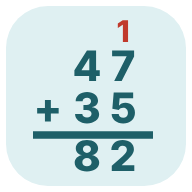
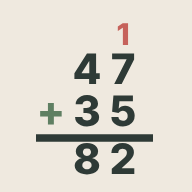
Blockmodellens färger, en färg per räknesätt och ny ikon (#3)
* Blockmodellens färgschema: mörk grågrön–blå rubrikruta, beige toner, ljus sidfot

Claude-Session: https://claude.ai/code/session_01FW4pkRRWndA97WmCazYNFg

* En färg per räknesätt (Blockmodellens områdesfärger): + grön, − blå, · gul, ÷ röd

Claude-Session: https://claude.ai/code/session_01FW4pkRRWndA97WmCazYNFg

* Rubrikrutan: fyra rutor i räknesättens färger

Claude-Session: https://claude.ai/code/session_01FW4pkRRWndA97WmCazYNFg

* Ny ikon: uppställningen i Blockmodellens färger på beige

Claude-Session: https://claude.ai/code/session_01FW4pkRRWndA97WmCazYNFg

---------

diff --git a/index.html b/index.html
@@ -2,14 +2,14 @@
 <html lang="sv"><head><meta charset="utf-8"><meta name="viewport" content="width=device-width,initial-scale=1">
 <title>Uppställningar – räkna med algoritmer</title>
 <meta name="description" content="Träna uppställningar (algoritmer) i de fyra räknesätten, siffra för siffra. Nya tal varje gång.">
-<meta name="theme-color" content="#1E5F68">
+<meta name="theme-color" content="#FBF8F3">
 <link rel="manifest" href="manifest.webmanifest">
 <link rel="icon" href="bilder/ikon-192.png">
 <link rel="apple-touch-icon" href="bilder/ikon-180.png">
 <link rel="preconnect" href="https://fonts.googleapis.com"><link rel="preconnect" href="https://fonts.gstatic.com" crossorigin>
 <link href="https://fonts.googleapis.com/css2?family=Fraunces:opsz,wght@9..144,600;9..144,700&family=Inter:wght@400;500;600;700;800;900&display=swap" rel="stylesheet">
 <link rel="stylesheet" href="stil.css?v=363ebe9b">
-<style>:root{--ink:#1E5F68;--mid:#4FA3AD;--l:#9FCDD2;--vl:#EAF5F6;--w:#F4FAFA;--hi:#4FA3AD;--bg:#EAF5F6;--ram:#9FCDD2;--knapp:#1E5F68;--t:#EAF5F6;--tram:#BFDDE0}</style>
+<style>:root{--ink:#46534D;--mid:#B9B1A4;--l:#E3DCD0;--vl:#FBF8F3;--w:#FBF8F3;--hi:#B9B1A4;--bg:#FBF8F3;--ram:#E3DCD0;--knapp:#46534D;--t:#FBF8F3;--tram:#E3DCD0}</style>
 <style>
 header .hoger nav a.mk{font-weight:700;white-space:nowrap}
 .logo small{white-space:nowrap}
@@ -26,10 +26,13 @@ header .wrap{flex-wrap:nowrap!important}
 @media(max-width:600px){section.panel{padding:16px 18px!important}section.panel h1{font-size:32px!important}section.panel p{font-size:16px}
  header .hoger{display:none}section.panel h1{font-size:30px!important}section.panel .etikett{font-size:12px}}
 </style>
+<style id="bmfarg">body{background:#FBF8F3}footer{background:#EFE9DF!important;color:#46534D}footer .wrap{color:#46534D}html body section.panel.panel{background:linear-gradient(115deg,#2E3A36,#5E8AA6)!important;box-shadow:none!important}html body section.panel.panel h1,html body section.panel.panel p{color:#fff!important}html body section.panel.panel .etikett{color:#D6E2EA!important}</style>
+<style id="rsatt">#upst[data-op="add"]{--op:#93B49A;--opl:#E6EFE6;--opr:#C9D9C8;--opd:#5F7F62}.v-satt button[data-typ="add"] b{background:#E6EFE6;color:#2E3A36}.v-satt button[data-typ="add"]:hover{border-color:#C9D9C8}.v-satt button[data-typ="add"].on{border-color:#5F7F62;box-shadow:0 0 0 2px #5F7F62 inset;background:#E6EFE6}.v-satt button[data-typ="add"].on b{background:#93B49A;color:#2E3A36}#upst[data-op="sub"]{--op:#9DBED1;--opl:#E8F2F7;--opr:#CFE1ED;--opd:#5E8AA6}.v-satt button[data-typ="sub"] b{background:#E8F2F7;color:#2E3A36}.v-satt button[data-typ="sub"]:hover{border-color:#CFE1ED}.v-satt button[data-typ="sub"].on{border-color:#5E8AA6;box-shadow:0 0 0 2px #5E8AA6 inset;background:#E8F2F7}.v-satt button[data-typ="sub"].on b{background:#9DBED1;color:#2E3A36}#upst[data-op="mul"]{--op:#F8C772;--opl:#FFF4E0;--opr:#FCE0B2;--opd:#E0A23F}.v-satt button[data-typ="mul"] b{background:#FFF4E0;color:#2E3A36}.v-satt button[data-typ="mul"]:hover{border-color:#FCE0B2}.v-satt button[data-typ="mul"].on{border-color:#E0A23F;box-shadow:0 0 0 2px #E0A23F inset;background:#FFF4E0}.v-satt button[data-typ="mul"].on b{background:#F8C772;color:#2E3A36}#upst[data-op="div"]{--op:#E58F84;--opl:#FCEBE8;--opr:#F6C9C3;--opd:#C6625B}.v-satt button[data-typ="div"] b{background:#FCEBE8;color:#2E3A36}.v-satt button[data-typ="div"]:hover{border-color:#F6C9C3}.v-satt button[data-typ="div"].on{border-color:#C6625B;box-shadow:0 0 0 2px #C6625B inset;background:#FCEBE8}.v-satt button[data-typ="div"].on b{background:#E58F84;color:#2E3A36}#upst .up-kort:not(.up-slut){border-top:6px solid var(--op)}#upst .up-c.akt,#upst .up-d.akt{background:var(--opr)}#upst .up-top.mal{background:var(--op);animation:opuls 1.1s infinite}@keyframes opuls{50%{box-shadow:inset 0 0 0 3px var(--opd)}}#upst .up-msg{background:var(--opl)}#upst .up-msg.vx{background:var(--opr)}#upst .v-chip{border-color:var(--opr);border-left:6px solid var(--op)}#upst .up-uppg{color:var(--opd)}</style>
+<style id="rsrubrik">html body section.panel.panel{display:flex;align-items:center;gap:24px}html body section.panel.panel>div:first-child{flex:1;min-width:0}.rsrad{display:grid;grid-template-columns:repeat(2,62px);grid-auto-rows:62px;gap:8px;flex:none}.rsrad i{display:flex;align-items:center;justify-content:center;border-radius:12px;font-style:normal;font-weight:800;font-size:34px;color:#2E3A36;line-height:1}@media(max-width:600px){html body section.panel.panel{flex-wrap:wrap;gap:14px}.rsrad{width:100%;grid-template-columns:repeat(4,1fr);grid-auto-rows:40px;gap:6px}.rsrad i{font-size:24px;border-radius:9px}}</style>
 </head>
 <body>
-<div class="rand" aria-hidden="true"><i style="background:#5F7F62"></i><i style="background:#537FB1"></i><i style="background:#C6625B"></i></div><header><div class="wrap"><a class="logo" href="index.html" aria-label="Mattekompassen, Örtagårdsskolan Malmö"><img src="bilder/kompass.png" alt="" style="width:46px;height:46px"><span>Mattekompassen<small>Örtagårdsskolan Malmö</small></span></a></div></header>
-<style>section.panel.panel{background:linear-gradient(115deg,#EAF5F6,#D3EAEC)!important;box-shadow:inset 0 0 0 2px #9FCDD2!important}section.panel.panel h1{color:#1E5F68!important}section.panel.panel .etikett{color:#1E5F68!important}section.panel.panel .sti,section.panel.panel .sti a{color:#4A5560!important}section.panel.panel p{color:#33404D!important}.kapblock,.ovkort,.np .infobox,.pi-intro div,.pi-info>div{background:linear-gradient(110deg,#EAF5F6,#D3EAEC)!important;border:2px solid #9FCDD2!important;box-shadow:none}.typ,.bg-ruta,.bt-ruta,.bm-steg li,.bm-valj a,.bm-del,.bm-tips li,.pi-omr button,.pisa .enhet,.np .ib4>div,.upg,.r6k,.r6steg div,.r6kap a:not(.forst),.ruta,.kq-lruta{background:#fff!important;border:1.5px solid #BFDDE0!important;border-top:6px solid #1E5F68!important}.kapblock h2,.kapblock h3:first-child,.r6sek,.r6k h3,.typ b,.bm-steg b{color:#1E5F68}.knapp{background:#1E5F68!important;color:#fff!important}</style><div class="wrap"><section class="panel"><div><h1>Uppställningar</h1><div class="etikett">De fyra räknesätten</div><p>Räkna de fyra räknesätten med uppställning, även kallad algoritm, siffra för siffra. Du får nya tal varje gång.</p></div></section></div>
+<header><div class="wrap"><a class="logo" href="index.html" aria-label="Mattekompassen, Örtagårdsskolan Malmö"><img src="bilder/kompass.png" alt="" style="width:46px;height:46px"><span>Mattekompassen<small>Örtagårdsskolan Malmö</small></span></a></div></header>
+<style>section.panel.panel{background:linear-gradient(115deg,#EFE9DF,#E3DCD0)!important;box-shadow:inset 0 0 0 2px #B9B1A4!important}section.panel.panel h1{color:#46534D!important}section.panel.panel .etikett{color:#46534D!important}section.panel.panel .sti,section.panel.panel .sti a{color:#4A5560!important}section.panel.panel p{color:#33404D!important}.kapblock,.ovkort,.np .infobox,.pi-intro div,.pi-info>div{background:linear-gradient(110deg,#EFE9DF,#E3DCD0)!important;border:2px solid #B9B1A4!important;box-shadow:none}.typ,.bg-ruta,.bt-ruta,.bm-steg li,.bm-valj a,.bm-del,.bm-tips li,.pi-omr button,.pisa .enhet,.np .ib4>div,.upg,.r6k,.r6steg div,.r6kap a:not(.forst),.ruta,.kq-lruta{background:#fff!important;border:1.5px solid #E3DCD0!important;border-top:6px solid #46534D!important}.kapblock h2,.kapblock h3:first-child,.r6sek,.r6k h3,.typ b,.bm-steg b{color:#46534D}.knapp{background:#46534D!important;color:#fff!important}</style><div class="wrap"><section class="panel"><div><h1>Uppställningar</h1><div class="etikett">De fyra räknesätten</div><p>Räkna de fyra räknesätten med uppställning, även kallad algoritm, siffra för siffra. Du får nya tal varje gång.</p></div><div class="rsrad" aria-hidden="true"><i style="background:#93B49A">+</i><i style="background:#9DBED1">−</i><i style="background:#F8C772">·</i><i style="background:#E58F84">÷</i></div></section></div>
 <style>
 #upst{max-width:760px;margin:0 auto;--cs:clamp(40px,11.5vw,58px);--acc:#C0392B}
 .up-val{display:flex;flex-wrap:wrap;gap:8px 14px;margin:0 0 14px}
@@ -131,19 +134,19 @@ header .wrap{flex-wrap:nowrap!important}
 .up-knappar{gap:10px;align-items:center}
 @media (max-width:560px){.v-box{padding:14px 12px 16px}.v-satt{grid-template-columns:repeat(2,minmax(0,1fr))}.v-tva{grid-template-columns:1fr}.v-seg button{font-size:14px}.v-start button{width:100%}.v-chip{font-size:14px;padding:5px 10px}}
 /* Blågrå färger (Nikolas bild 2026-11-21) i stället för gult */
-:root{--ink:#1E5F68;--mid:#2F7480;--l:#BFDDE0;--vl:#EAF5F6;--w:#F4FAFA;--hi:#EFF7F8;--bg:#EAF5F6;--ram:#BFDDE0;--knapp:#1E5F68}
-.panel{background:#1E5F68!important;color:#fff}.panel h1{color:#fff}.panel .sti,.panel .sti a{color:#BFDDE0}.panel .etikett{color:#7FB5BC}.panel p{color:#EAF5F6}
-.up-c.akt,.up-d.akt{background:#DFF0F2}.up-top:hover{background:#EFF7F8}.up-top.mal{background:#BFDDE0}
-@keyframes uppuls{50%{box-shadow:inset 0 0 0 3px #2F7480}}
-.up-ans span{border-color:#7FB5BC;background:#FBFDFD}.up-ans.sel span{background:#EAF5F6}
-.up-msg{background:#EFF7F8}.up-msg.vx{background:#DFF0F2}
-.up-uppg{color:#2F7480}.up-prog i{background:#EAF5F6;border-color:#BFDDE0}
-.v-et{color:#2F7480}.v-satt button{border-color:#CFE6E9}.v-satt button.on{background:#EFF7F8}.v-seg{background:#EAF5F6}.v-seg small{color:#2F7480}
+:root{--ink:#46534D;--mid:#B9B1A4;--l:#E3DCD0;--vl:#FBF8F3;--w:#FBF8F3;--hi:#B9B1A4;--bg:#FBF8F3;--ram:#E3DCD0;--knapp:#46534D;--t:#FBF8F3;--tram:#E3DCD0}
+.panel{background:#46534D!important;color:#fff}.panel h1{color:#fff}.panel .sti,.panel .sti a{color:#E3DCD0}.panel .etikett{color:#B9B1A4}.panel p{color:#EFE9DF}
+.up-c.akt,.up-d.akt{background:#FCEBC4}.up-top:hover{background:#F6F2EB}.up-top.mal{background:#E3DCD0}
+@keyframes uppuls{50%{box-shadow:inset 0 0 0 3px #46534D}}
+.up-ans span{border-color:#B9B1A4;background:#FFFFFF}.up-ans.sel span{background:#EFE9DF}
+.up-msg{background:#F6F2EB}.up-msg.vx{background:#FCEBC4}
+.up-uppg{color:#46534D}.up-prog i{background:#EFE9DF;border-color:#E3DCD0}
+.v-et{color:#46534D}.v-satt button{border-color:#E3DCD0}.v-satt button.on{background:#F6F2EB}.v-seg{background:#EFE9DF}.v-seg small{color:#46534D}
 @media (max-width:560px){.up-kort{padding:14px 12px 16px}.up-grp button{font-size:14px;padding:6px 10px}.up-fraga{font-size:17px}.up-tangent{grid-template-columns:repeat(3,1fr);width:100%}.up-tangent button{height:52px}.up-msg{font-size:16px}}
 </style><main><section><div class="wrap"><div id="upst"></div>
 <div class="app-tips" id="appTips"><span><b>Spara som app:</b> lägg Uppställningar på din skärm, så öppnar du den med ett klick, även utan internet.</span><button id="appJa">Installera</button><button class="x" id="appNej" aria-label="Stäng">✕</button></div>
-</div></section></main><script src="uppstallning.js?v=363ebe9b"></script>
-<footer><div class="rand" aria-hidden="true"><i style="background:#5F7F62"></i><i style="background:#537FB1"></i><i style="background:#C6625B"></i></div><div class="wrap"><b>Uppställningar – en del av Mattekompassen</b></div></footer>
+</div></section></main><script src="uppstallning.js?v=3812431e"></script>
+<footer><div class="wrap"><b>Uppställningar – en del av Mattekompassen</b></div></footer>
 <script>
 if('serviceWorker' in navigator){window.addEventListener('load',function(){navigator.serviceWorker.register('sw.js').catch(function(){})})}
 (function(){var d=null,t=document.getElementById('appTips');

diff --git a/uppstallning.js b/uppstallning.js
@@ -633,6 +633,7 @@
   var METOD = [['kort', 'Kort division', 'Resten som liten siffra'], ['trappa', 'Trappan', 'Nämnaren till vänster'], ['stol', 'Liggande stolen', 'Nämnaren till höger']];
   var SATT = [['add', '+', 'Addition'], ['sub', '−', 'Subtraktion'], ['mul', '·', 'Multiplikation'], ['div', '÷', 'Division']];
   function rita_start() {
+    R.setAttribute('data-op', S.typ);
     R.innerHTML = '<div class="v-box"><span class="v-et">1. Välj räknesätt</span><div class="v-satt" role="group" aria-label="Räknesätt">' +
       SATT.map(function (x) { return '<button data-typ="' + x[0] + '" class="' + (S.typ === x[0] ? 'on' : '') + '" aria-pressed="' + (S.typ === x[0]) + '"><b aria-hidden="true">' + x[1] + '</b><span>' + x[2] + '</span></button>'; }).join('') + '</div>' +
       '<div class="v-tva"><div><span class="v-et">2. Välj nivå</span><div class="v-seg" role="group" aria-label="Nivå">' +
@@ -664,7 +665,7 @@
     if (b.dataset.lage) { S.lage = b.dataset.lage; spara(); return rita_start(); }
     if (b.dataset.d !== undefined) return siffra(+b.dataset.d);
     var g = b.dataset.g;
-    if (g === 'borja') { vald = true; nyRunda(); R.scrollIntoView({ block: 'start', behavior: 'smooth' }); return; }
+    if (g === 'borja') { R.setAttribute('data-op', S.typ); vald = true; nyRunda(); R.scrollIntoView({ block: 'start', behavior: 'smooth' }); return; }
     if (g === 'byt') { vald = false; rita_start(); return; }
     if (g === 'sudda') return sudda();
     if (g === 'ratta') return ratta();

diff --git a/sw.js b/sw.js
@@ -1,6 +1,6 @@
 // Uppställningar – offline-stöd. Byt VERSION när filerna ändras (bygg.py gör det automatiskt).
-const VERSION = 'upst-363ebe9b';
-const FILER = ['./', 'index.html', 'stil.css?v=363ebe9b', 'uppstallning.js?v=363ebe9b', 'manifest.webmanifest',
+const VERSION = 'upst-3812431e';
+const FILER = ['./', 'index.html', 'stil.css?v=363ebe9b', 'uppstallning.js?v=3812431e', 'manifest.webmanifest',
   'bilder/kompass.png', 'bilder/ikon-192.png', 'bilder/ikon-512.png'];
 self.addEventListener('install', e => {
   e.waitUntil(caches.open(VERSION).then(c => c.addAll(FILER)).then(() => self.skipWaiting()));
